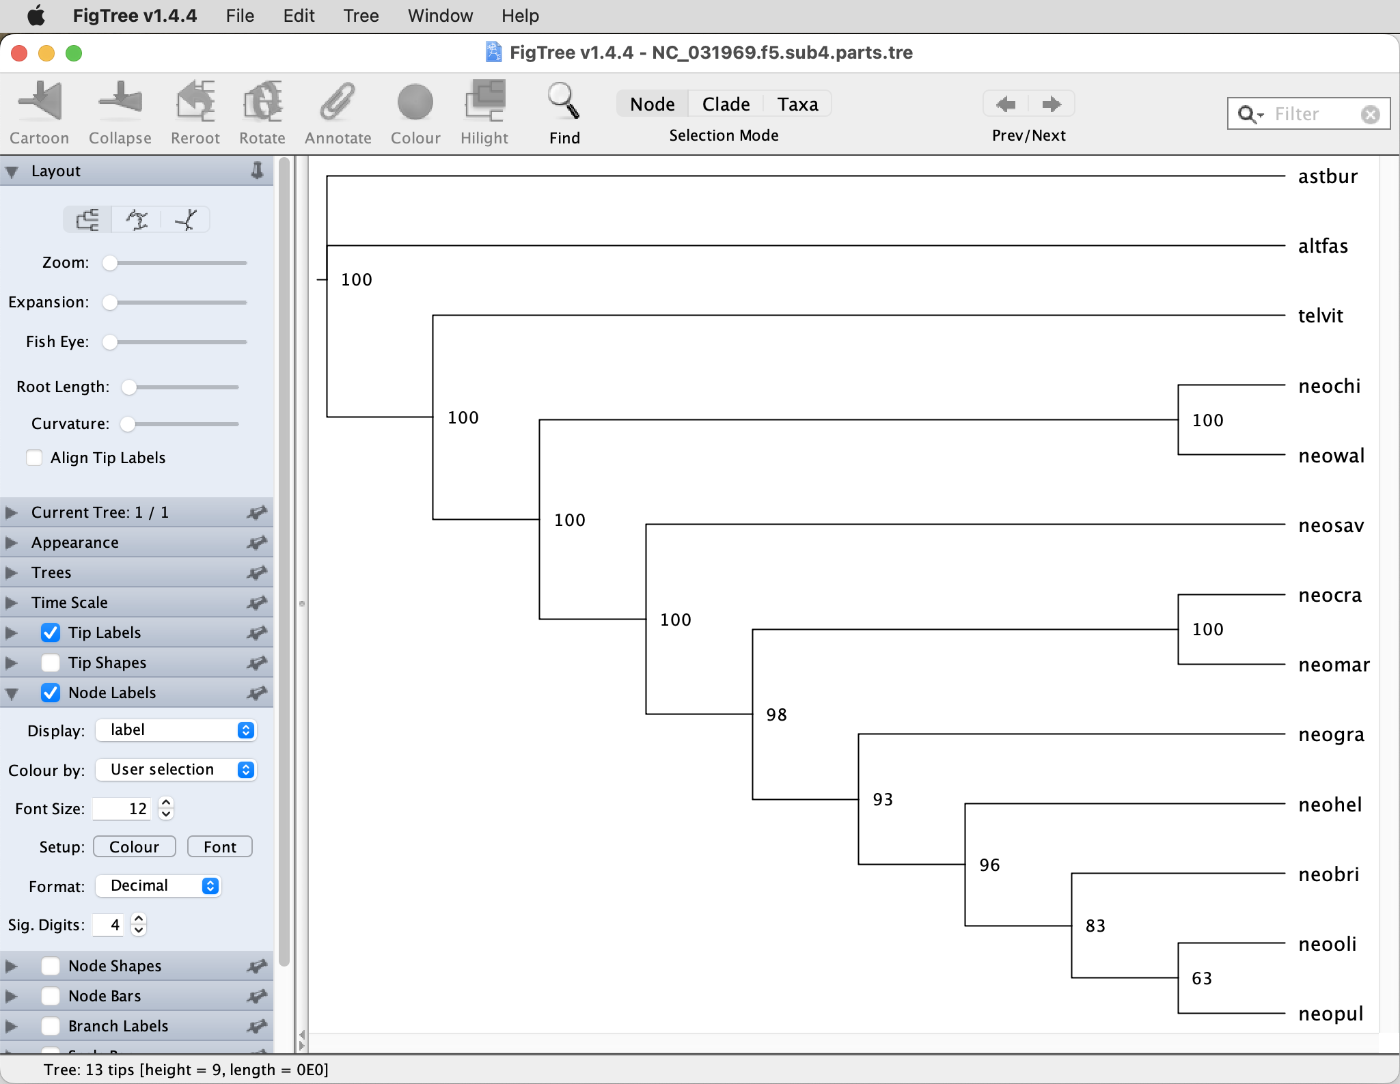
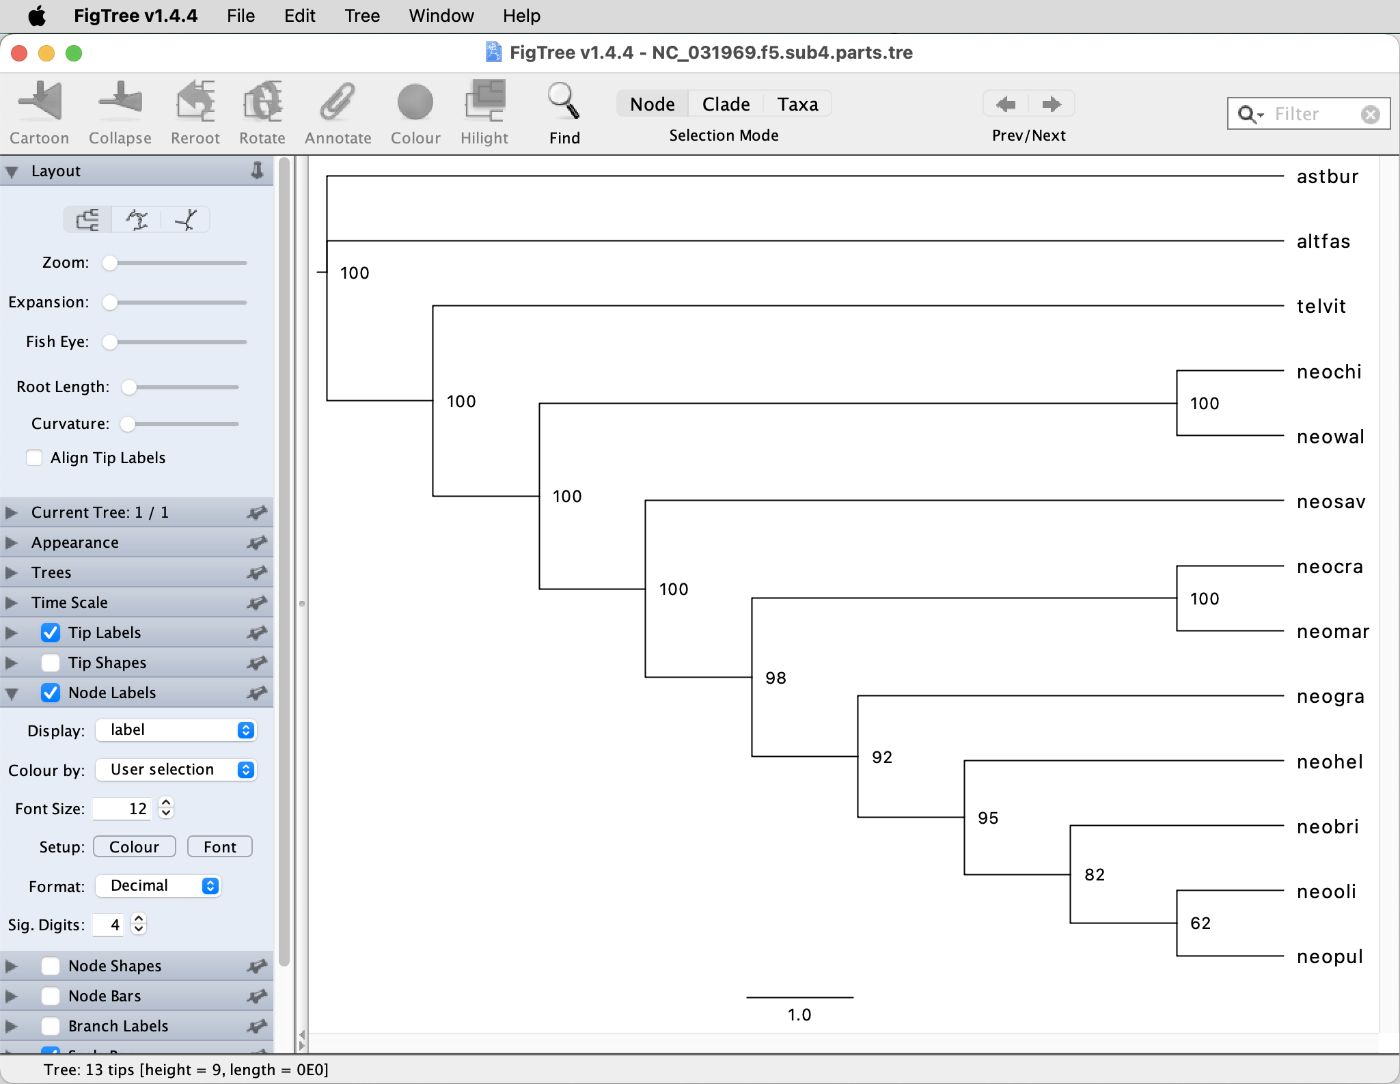
complete species tree inference with snps

diff --git a/species_tree_inference_with_snp_data/README.md b/species_tree_inference_with_snp_data/README.md
@@ -128,77 +128,49 @@ SVDQuartets is a highly efficient tool to estimate the species-tree topology bas
 
 The dataset is now sufficiently filtered for analysis with SVDQuartets. However, as SVDQuartets is implemented in PAUP\* and PAUP\* does not accept VCF files as input, we'll need to convert file `NC_031969.f5.sub4.vcf` into Nexus format. We can use the Ruby script `convert_vcf_to_nexus.rb`.
 
-* Add the script `convert_vcf_to_nexus.rb` to your current directory on Saga, either by copying it from `/cluster/projects/nn9458k/phylogenomics/week2/src` or by downloading it from GitHub, using one of the following two commands:
-
-		cp /cluster/projects/nn9458k/phylogenomics/week2/src/convert_vcf_to_nexus.rb .
-
-	or
+* Download the script `convert_vcf_to_nexus.rb` to your tutorial directory on lynx:
 	
-		wget https://raw.githubusercontent.com/ForBioPhylogenomics/tutorials/main/week2_src/convert_vcf_to_nexus.rb
+		wget https://raw.githubusercontent.com/mmatschiner/phylogenomics/refs/heads/main/species_tree_inference_with_snp_data/scripts/convert_vcf_to_nexus.rb
 		
 * Use the script to convert the SNP dataset of `NC_031969.f5.sub4.vcf` to Nexus format:
 
-		module purge
-		module load Ruby/2.7.2-GCCcore-9.3.0
-		srun --ntasks=1 --mem-per-cpu=1G --time=00:01:00 --account=nn9458k --pty ruby convert_vcf_to_nexus.rb NC_031969.f5.sub4.vcf NC_031969.f5.sub4.nex
+		ruby convert_vcf_to_nexus.rb NC_031969.f5.sub4.vcf NC_031969.f5.sub4.nex
 
 * Have a look at the Nexus file `NC_031969.f5.sub4.nex`, for example using `less -S`:
 
 		less -S NC_031969.f5.sub4.nex
 		
-	Note that heterozygous sites have been coded with [IUPAC ambiguity codes](https://en.wikipedia.org/wiki/Nucleic_acid_notation), so that for example a "C/T" allele has been replace with the letter "Y". While many phylogenetic algorithms can not deal with this ambiguity information, SVDQuartets will automatically recognize that both alleles are present heterozygously in the individual and will consider both in its calculations of the SVD score.
+	Note that heterozygous sites have been coded with [IUPAC ambiguity codes](https://en.wikipedia.org/wiki/Nucleic_acid_notation), so that for example a "C/T" allele has been replaced with the letter "Y". While many phylogenetic algorithms can not deal with this ambiguity information, SVDQuartets will automatically recognize that both alleles are present heterozygously in the individual and will consider both in its calculations of the SVD score.
 
-* If you have the PAUP\* GUI installed on your own computer, you can use the following steps to run a first SVDQuartets analysis (if not, scroll down to the next black bullet point):
+* For a first SVDQuartets analysis, start PAUP\* interactively on the command line:
 
-	* Download file `NC_031969.f5.sub4.nex` from Saga to your own computer using `scp`.
-
-	* Open the Nexus file `NC_031969.f5.sub4.nex` in PAUP\*, and make sure that the option "Execute" is set in the opening dialog, as shown in the next screenshot.<p align="center"><img src="img/paup1.png" alt="PAUP\*" width="700"></p>
-
-	* To specify the two individuals of *Astatotilapia burtoni* ("IZA1" and "IZC5") as the outgroup, click on "Define Outgroup..." in PAUP\*'s "Data" menu, as shown below.<p align="center"><img src="img/paup2.png" alt="PAUP\*" width="700"></p>
-
-	* Then, move the "IZA1" and "IZC5" into the field for the outgroup taxa with the "To Outgroup &rarr;" button, as shown in the next screenshot, and click "OK".<p align="center"><img src="img/paup3.png" alt="PAUP\*" width="700"></p> 
-
-	* We are first going to run SVDQuartets with all individuals as separate taxa to verify that these in fact appear monophyletic before we group all individuals per species in a second analysis. To select the settings for this first SVDQuartets analysis, click on "SVDQuartets..." in PAUP\*'s "Analysis" menu, as shown in the next screenshot.<p align="center"><img src="img/paup4.png" alt="PAUP\*" width="700"></p> 
-
-	* In the pop-up window for the SVDQuartets settings, choose "Evaluate all possible quartets" in the field at the top for "Quartet evaluation". With a larger dataset and limited computational resources, one might want to evaluate only a certain subset instead, but with the compraratively small dataset used in our analysis, evaluating all quartets will be very fast, so there is no reason to only analyze a subset. You can leave the default values for for all other options. Make sure that "Handling of ambiguities" is set to "Distribute". This specifies that the IUPAC ambiguity code for heterozygous sites will be correctly interpreted as both alleles being present in the individual, rather than uncertainty about any of the alleles. The pop-up window should then look as in the next screenshot. Click "OK" if it does.<p align="center"><img src="img/paup5.png" alt="PAUP\*" width="700"></p>This analysis should finish within a few seconds.
-
-	* Have a look at the output in the PAUP\* screen, where the tree estimated by SVDQuartets should now be shown.
-
-* If you are using the command-line version of PAUP\* on Saga, use these commands for the first SVDQuartets analysis:
-
-	* Load the PAUP\* module.
-
-			module load PAUP/4.0a168-centos64
+		paup
 			
-	* Start PAUP\* interactively on the command line:
+* In the interactive PAUP\* session, load the Nexus file `NC_031969.f5.sub4.nex` using the PAUP\* command `execute`:
 
-			srun --ntasks=1 --mem-per-cpu=1G --time=00:30:00 --account=nn9458k --pty paup
+		execute NC_031969.f5.sub4.nex
 			
-	* In the interactive PAUP\* session, load the Nexus file `NC_031969.f5.sub4.nex` using the PAUP\* command `execute`:
+* To specify the two individuals of *Astatotilapia burtoni* ("IZA1" and "IZC5") as the outgroup, we first need to find out which numbers PAUP\* is using for these two individuals in its taxon list. To get these numbers, use PAUP\*s `tstatus` command with option `full`:
 
-			execute NC_031969.f5.sub4.nex
+		tstatus full
 			
-	* To specify the two individuals of *Astatotilapia burtoni* ("IZA1" and "IZC5") as the outgroup, we first need to find out which numbers PAUP\* is using for these two individuals in its taxon list. To get these numbers, use PAUP\*s `tstatus` command with option `full`:
-
-			tstatus full
-			
-		As you'll see, the numbers used for individuals "IZA1" and "IZC5" are "1" and "2", respectively.
+	As you'll see, the numbers used for individuals "IZA1" and "IZC5" are "1" and "2", respectively.
 		
-	* Define the individuals "IZA1" and "IZC5" as the outgroup using PAUP\*s `outgroup` command:
+* Define the individuals "IZA1" and "IZC5" as the outgroup using PAUP\*s `outgroup` command:
 
-			outgroup 1 2
+		outgroup 1 2
 			
-	* Then, simply start the SVDQuartets analysis with PAUP\*'s `svdQuartets` command (the default settings correspond exactly to those used above for the analysis with the GUI version):
+* Then, simply start the SVDQuartets analysis with PAUP\*'s `svdQuartets` command (the default settings correspond exactly to those used above for the analysis with the GUI version):
 
-			svdQuartets
+		svdQuartets
 
-		This analysis should only take a few seconds, and then output the tree on the screen.
+	This analysis should only take a few seconds, and then output the tree on the screen.
 
-	* Quit the interactive PAUP\* session with `quit`.
+* Quit the interactive PAUP\* session with `quit`.
 
 	**Question 3:** Do the two individuals of each species cluster monophyletically? Use the table in the [Dataset](#dataset) section to find out. [(see answer)](#q3)
 
-* In a second analysis with SVDQuartets, we are going to specify which individuals come from the same species, so that SVDQuartets can use this information to estimate a tree with species as taxa. To specify this information, write the following text to a file named `taxpartitions.txt` (either on your own computer or on Saga, depending on whether you use the PAUP\* GUI or its command-line version): 
+* In a second analysis with SVDQuartets, we are going to specify which individuals come from the same species, so that SVDQuartets can use this information to estimate a tree with species as taxa. To specify this information, write the following text to a file named `taxpartitions.txt`: 
 		
 		BEGIN SETS;
 			TAXPARTITION SPECIES =
@@ -219,58 +191,35 @@ The dataset is now sufficiently filtered for analysis with SVDQuartets. However,
 		
 	The above text block uses the "Sets" command of the very flexible Nexus format (a complete format reference can be found in [Maddison et al. 1997](https://academic.oup.com/sysbio/article/46/4/590/1629695)). It specifies that the first two sequences in the Nexus file correspond to species "astbur", the next two sequences correspond to species "altfas" and so on.
 		
-* The alignment file `NC_031969.f5.sub4.nex` and the file `taxpartitions.txt` that was written in the last step then need to be combined into a single file in Nexus format.
+* The alignment file `NC_031969.f5.sub4.nex` and the file `taxpartitions.txt` that was written in the last step then need to be combined into a single file in Nexus format. Use `cat` to combine the two files:
 
-	* If you do this on your own computer, just open both files in a text editor and copy-paste the content of file `taxpartitions.txt` at the end of file `NC_031969.f5.sub4.nex`; then save this as a new file named `NC_031969.f5.sub4.parts.nex`.
+		cat NC_031969.f5.sub4.nex taxpartitions.txt > NC_031969.f5.sub4.parts.nex
 
-	* If you do this on Saga, use `cat` to combine the two files:
+* To run the second SVDQuartets analysis, launch PAUP\* again interactively:
 
-			cat NC_031969.f5.sub4.nex taxpartitions.txt > NC_031969.f5.sub4.parts.nex
+		paup
 
+* Load the Nexus file ` NC_031969.f5.sub4.parts.nex` using the PAUP\* command `execute`:
 
-* If you are using the PAUP\* GUI, take the following steps for the second SVDQuartets analysis:
+		execute NC_031969.f5.sub4.parts.nex
 
-	* Open the new Nexus file `NC_031969.f5.sub4.parts.nex` again in PAUP\* and make sure that "Execute" is selected in the opening dialog. You will be asked if you want to reset the active datafile. Click "Yes" to do so.
+* Again define the individuals "IZA1" and "IZC5" as the outgroup with PAUP\*s `outgroup` command:
 
-	* Once again define the individuals of *Astatotilapia burtoni* ("IZA1" and "IZC5") as the outgroup with "Define Outgroup..." in the "Data" menu.
-
-	* Click "SVDQuartets..." again in the "Analysis" menu. In the settings for the SVDQuartets analysis, again use "Evaluate all possible quartets" and make sure that "Distribute" is selected for "Handling of ambiguities". Unlike in the first analysis, now assign the individuals to species by setting a tick in the last checkbox next to "Assign tips to species using taxon partition". The "SPECIES" taxon partition should already be selected in the drop-down menu to the right of it; this is the taxon set definition that we had added in Nexus format to the end of the alignment file. To also perform a bootstrapping analysis this time to assess node support for the species tree, set a tick in the checkbox next to "Perform bootstrapping". With 100 bootstrap replicates, the bootstrapping analysis might take around 20 minutes; if you would prefer not to wait that long you could set the number of bootstrap replicates to 50 instead. Another way to speed up the analysis is to use all CPUs available on your machine. To do so, simply click the "#CPUs" button in the bottom right of the settings window. This window should then look as shown in the next screenshot; click "OK" if it does.<p align="center"><img src="img/paup7.png" alt="PAUP\*" width="700"></p>
-
-	* While the bootstrapping analysis is running, have a look at the screen output of PAUP\*, which should look as shown in the next screenshot.<p align="center"><img src="img/paup8.png" alt="PAUP\*" width="700"></p>You'll see that PAUP\* has already generated a species tree, and that it reports the number of quartets that are comparable or incomparable with this tree. If all quartets would be comparable with this tree, this would indicate complete absence of incomplete lineage sorting and other processes that might violate the multi-species coalescent model, such as introgression or paralogous sequences in the alignment. However, these processes can not be excluded, and introgression is in fact very likely among the species included in this dataset.
-
-	* Once bootstrapping has completed, PAUP\* should print the same species tree once again, this time with bootstrap node support values as shown in the screenshot below.<p align="center"><img src="img/paup9.png" alt="PAUP\*" width="700"></p>
-
-	* Before closing PAUP\*, save the species tree with bootstrap support values to a new file named `NC_031969.f5.sub4.parts.tre` by clicking "Save Trees to File..." in PAUP\*'s "Trees" menu. Before you click "Save", first open a settings dialog by clicking the "More Options..." button. This should open another dialog window as shown in the next screenshot. In that window, select  "As internal node labels (only for other programs)" as the option for "Bootstrap/jackknife values". By saving the node-support values in this way, they will be readable e.g. for FigTree. Then, click "OK" and save the species tree.<p align="center"><img src="img/paup10.png" alt="PAUP\*" width="700"></p>
-
-* To alternatively run the second SVDQuartets analysis with the command-line version of PAUP\* on Saga, use the following commands:
-
-	* Start PAUP\* interactively, this time asking for 6 CPUs with option `--cpus-per-task=6`:
-
-			srun --ntasks=1 --cpus-per-task=6 --mem-per-cpu=1G --time=00:30:00 --account=nn9458k --pty paup
-
-	* Load the Nexus file ` NC_031969.f5.sub4.parts.nex` using the PAUP\* command `execute`:
-
-			execute NC_031969.f5.sub4.parts.nex
-
-	* Again define the individuals "IZA1" and "IZC5" as the outgroup with PAUP\*s `outgroup` command:
-
-			outgroup 1 2
+		outgroup 1 2
 			
-	* Start the SVDQuartets analysis again with PAUP\*'s `svdQuartets` command
+* Start the SVDQuartets analysis again with PAUP\*'s `svdQuartets` command, this time specifying that a bootstrapping analysis should be added to assess node support for the species tree. As the bootstrapping might take a while on a single node, use `nthreads=6` to specify that the analysis should be run on 6 threads:
 	
-			svdQuartets taxpartition=SPECIES bootstrap=standard nthreads=6
+		svdQuartets taxpartition=SPECIES bootstrap=standard nthreads=6
 			
-		Due to the invoked bootstrapping, this analysis may now take a few minutes.
+* Save the inferred tree with branch labels:
 
-	* Save the inferred tree with branch labels:
+		saveTrees file='NC_031969.f5.sub4.parts.tre' supportValues=nodeLabels
 
-			saveTrees file='NC_031969.f5.sub4.parts.tre' supportValues=nodeLabels
+* Quit the interactive PAUP\* session with `quit`.
 
-	* Quit the interactive PAUP\* session with `quit`.
+* Download the tree file `NC_031969.f5.sub4.parts.tre` from lynx to your own computer using `scp`.
 
-	* Download the tree file `NC_031969.f5.sub4.parts.tre` from Saga to your own computer using `scp`.
-
-* When you open the species tree inferred with SVDQuartets in FigTree, it should appear as shown in the next screenshot.<p align="center"><img src="img/figtree1.png" alt="PAUP\*" width="700"></p>
+* When you open the species tree inferred with SVDQuartets in FigTree, it should appear as shown in the next screenshot (after selecting to display support values as node labels, adjusting label sizes, and reorienting).<p align="center"><img src="img/figtree1.png" alt="PAUP\*" width="700"></p>
 
 	**Question 4:** Does the species tree inferred by SVDQuartets appear reliable? [(see answer)](#q4)
 	
@@ -301,7 +250,7 @@ The species tree reveals that the divergence of the four *Neolamprologus* specie
 
 <a name="q3"></a>
 
-* **Question 3:** The (first half of) the tree should look as in the next screenshot, where indeed the two individuals of each of the 14 species all appear next to each other, indicating monophyly of all species. While non-monophyly of species could result from incomplete lineage sorting, it could also indicate misidentified individuals. In any case, the fact that species appear monophyletic means that there is no reason not to combine individuals per species into one unit and use species as taxa in another analysis with SVDQuartets.<p align="center"><img src="img/paup6.png" alt="PAUP\*" width="700"></p>
+* **Question 3:** The (first half of the) tree should look as in the next screenshot, where indeed the two individuals of each of the 14 species all appear next to each other, indicating monophyly of all species. While non-monophyly of species could result from incomplete lineage sorting, it could also indicate misidentified individuals. In any case, the fact that species appear monophyletic means that there is no reason not to combine individuals per species into one unit and use species as taxa in another analysis with SVDQuartets.<p align="center"><img src="img/terminal4.png" alt="PAUP\*" width="700"></p>
 
 
 <a name="q4"></a>
@@ -311,4 +260,4 @@ The species tree reveals that the divergence of the four *Neolamprologus* specie
 
 <a name="q5"></a>
 
-* **Question 5:** In tutorial [Bayesian Species-Tree Inference](../bayesian_species_tree_inference/README.md), a species tree was inferred with StarBeast3 based on sequence data from twelve genes and eleven cichlid species. Of these species, four are also included in the species tree produced here with SVDQuartets, these are *Neolamprologus brichardi* ("neobri"), *Neolamprologus gracilis* ("neogra"), *Neolamprologus marunguensis* ("neomar"), and *Neolamprologus olivaceous* ("neooli"). The relationship of these four species received moderate support in the species tree resulting from the SVDQuartets analysis: *Neolamprologus brichardi* ("neobri") and *Neolamprologus olivaceous* ("neooli") are the most closely related of the four species, with a bootstrap support of 83. The support for the clustering of this pair of species with *Neolamprologus gracilis* ("neogra") receives a similarly strong bootstrap support of 93. The sister-group relationship of the two species *Neolamprologus brichardi* ("neobri\_spc") and *Neolamprologus olivaceous* ("neooli\_spc") was also recovered with the StarBeast3 analysis (shown in the screenshot below), albeit only with a low Bayesian posterior probability of 0.5. But in contrast to the SVDQuartets species tree, *Neolamprologus marunguensis* ("neomar_spc") instead of *Neolamprologus gracilis* ("neogra\_spc") appeared as the next-closest species in the species tree estimated by StarBeast3, again with a very low Bayesian posterior probability of 0.38. Thus, while the two topologies are in conflict with each other, the topology inferred with StarBeast3 did not receive strong support and may thus be incorrect. This difference in the degree of support between the two analyses is not surprising, given that we used a dataset of over 60,000 SNPs for SVDQuartets but only 12 sequence alignments with StarBeast3. <p align="center"><img src="img/figtree2.png" alt="PAUP\*" width="700"></p>
+* **Question 5:** In tutorial [Bayesian Species-Tree Inference](../bayesian_species_tree_inference/README.md), a species tree was inferred with StarBeast3 based on sequence data from twelve genes and eleven cichlid species. Of these species, five are also included in the species tree produced here with SVDQuartets; these are *Neolamprologus brichardi* ("neobri"), *Neolamprologus gracilis* ("neogra"), *Neolamprologus marunguensis* ("neomar"), and *Neolamprologus olivaceous* ("neooli"), as well as the species that is here used as outgroup, *Astatotilapia burtoni* ("astbur"). The relationships of the four species *Neolamprologus* species received moderate support in the species tree resulting from the SVDQuartets analysis: *Neolamprologus brichardi* ("neobri") and *Neolamprologus olivaceous* ("neooli") are the most closely related of the four species, with a bootstrap support around 82. The support for the clustering of this pair of species with *Neolamprologus gracilis* ("neogra") receives a bootstrap support of around 92. The grouping of the two species *Neolamprologus brichardi* ("neobri\_spc") and *Neolamprologus olivaceous* ("neooli\_spc") was also recovered with the StarBeast3 analysis (shown in the screenshot below), albeit only with a low Bayesian posterior probability of 0.5. But in contrast to the SVDQuartets species tree, *Neolamprologus marunguensis* ("neomar_spc") instead of *Neolamprologus gracilis* ("neogra\_spc") appeared as the next-closest species in the species tree estimated by StarBeast3, again with a very low Bayesian posterior probability of around 0.38. Thus, while the two topologies are in conflict with each other, the topology inferred with StarBeast3 did not receive strong support and may thus be incorrect. This difference in the degree of support between the two analyses is not surprising, given that we used a dataset of over 60,000 SNPs for SVDQuartets but only 12 sequence alignments with StarBeast3. <p align="center"><img src="img/figtree2.png" alt="PAUP\*" width="700"></p>
